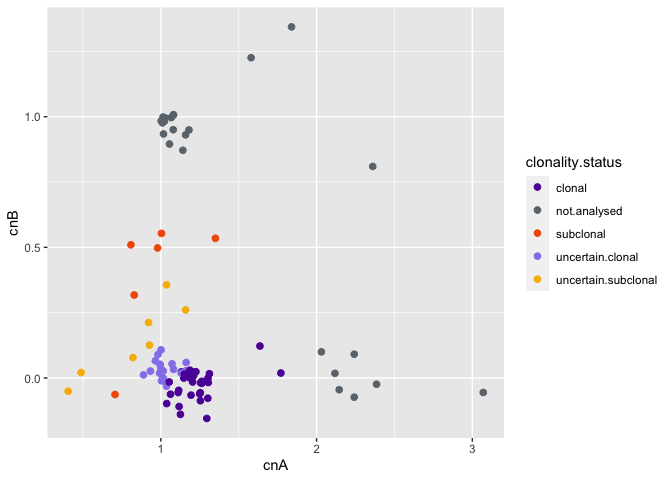
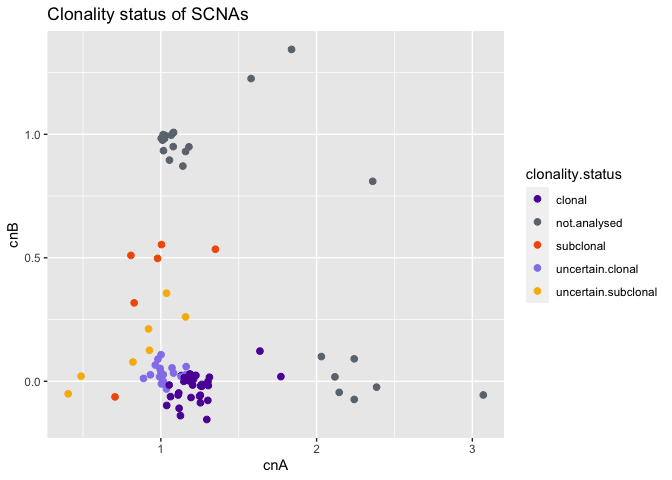
task9 TPES

diff --git a/script/task09.md b/script/task09.md
@@ -3,8 +3,8 @@ Task 9 - Purity and Ploidy estimation
 
 *GATK ASEReadCounter* calculates read counts per allele for
 allele-specific expression analysis of RNAseq (??) data. The `.vcf` file
-is needed to specify the positions to evaluate: in this case, the
-variants identified during task 3 on the control sample. Only biallelic
+is needed to specify the positions to evaluate: in this case, the SNPs
+identified during task 3 on the control sample. Only biallelic
 heterozygous SNPs are considered, so it is quicker to extract them
 before with:
 
@@ -53,7 +53,6 @@ gatk3 ASEReadCounter \
 ``` r
 library(data.table)
 library(CLONETv2)
-library(TPES)
 library(ggplot2)
 ```
 
@@ -235,27 +234,69 @@ clonality.table <- compute_scna_clonality_table(beta_table = bt,
 b <- merge(clonality.table, allele_specific_cna_table)
 ggplot(data=b, aes(x=cnA, y=cnB, col=clonality.status))+
   geom_point(size=2)+
-  scale_color_manual(values=c("#5d16a6", "#6c757d", "#f35b04", "#9683ec", "#f7b801"))
+  scale_color_manual(values=c("#5d16a6", "#6c757d", "#f35b04", "#9683ec", "#f7b801"))+
+  ggtitle("Clonality status of SCNAs")
 ```
 
 ![](task09_files/figure-gfm/clonality-1.png)<!-- -->
 
 ## TPES
 
-``` r
-# snv.reads = fread("../08_SomaticVariantCalling/Data/somatic.pm",data.table=F)
-# snv.reads = snv.reads[which(snv.reads$somatic_status=="Somatic"),]
-# snv.reads = snv.reads[,c("chrom","position","position","tumor_reads1","tumor_reads2")]
-# colnames(snv.reads) = c("chr","start","end","ref.count","alt.count")
-# snv.reads$sample = "Sample.1"
-# 
-# TPES_purity(ID = "Sample.1", SEGfile = seg.tb,
-#             SNVsReadCountsFile = snv.reads,
-#             ploidy = pl.table,
-#             RMB = 0.47, maxAF = 0.6, minCov = 10, minAltReads = 10, minSNVs = 1)
-# 
-# TPES_report(ID = "Sample.1", SEGfile = seg.tb,
-#             SNVsReadCountsFile = snv.reads,
-#             ploidy = pl.table,
-#             RMB = 0.47, maxAF = 0.6, minCov = 10, minAltReads = 10, minSNVs = 1)
+[TPES
+documentation](https://cran.r-project.org/web/packages/TPES/TPES.pdf)
+
+Obtain the list of SNVs from Varscan (non-vcf output)
+
+``` bash
+varscan somatic Control.pileup Tumor.pileup somatic.pm
 ```
+
+``` r
+library(TPES)
+```
+
+The file with the somatic variants is loaded in R and the dataset is
+prepared for the *TPES* workflow.
+
+``` r
+snv.reads = fread("somatic.pm.snp",data.table=F)
+snv.reads = snv.reads[which(snv.reads$somatic_status=="Somatic"),]
+snv.reads = snv.reads[,c("chrom","position","position","tumor_reads1","tumor_reads2")]
+colnames(snv.reads) = c("chr","start","end","ref.count","alt.count")
+snv.reads$sample = "Sample.1"
+```
+
+The segmentation file `seg` and the ploidy table `pl.table`, created for
+*CLONET* are used for *TPES* too.
+
+The parameters are:
+
+  - `RMB`: Reference Mapping Bias
+  - `maxAF`: threshold on allelic fraction
+  - `minCov`: minimum coverage
+  - `minAltReads`: minimum coverage for alternaive reads
+  - `minSNVs`: minimum number of SNVs
+
+<!-- end list -->
+
+``` r
+TPES_purity(ID = "Sample.1", SEGfile = seg,
+            SNVsReadCountsFile = snv.reads,
+            ploidy = pl.table,
+            RMB = 0.47, maxAF = 0.55, minCov = 10, minAltReads = 10, minSNVs = 1)
+```
+
+    ##            sample purity purity.min purity.max n.segs n.SNVs  RMB BandWidth
+    ## Sample.1 Sample.1   0.94       0.94       0.94     24      1 0.47     0.019
+    ##                     log
+    ## Sample.1 computation ok
+
+``` r
+par(mar=c(4,4,3,2))
+TPES_report(ID = "Sample.1", SEGfile = seg,
+            SNVsReadCountsFile = snv.reads,
+            ploidy = pl.table,
+            RMB = 0.47, maxAF = 0.55, minCov = 10, minAltReads = 10, minSNVs = 1)
+```
+
+![](task09_files/figure-gfm/TPES-1.png)<!-- -->
